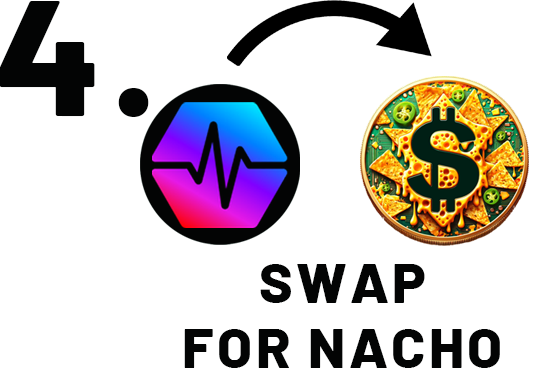
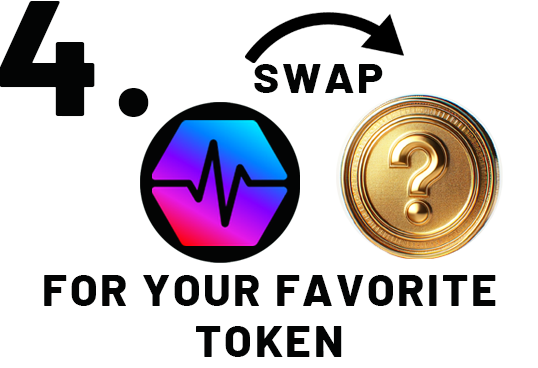
update

diff --git a/index.html b/index.html
@@ -290,10 +290,10 @@
               <img src="images/steps/3.png?v=2" alt="step 3" />
             </div>
             <div class="step">
-              <img src="images/steps/4.png" alt="step 4" />
+              <img src="images/steps/4.png?v=2" alt="step 4" />
             </div>
             <div class="step">
-              <img src="images/steps/5.png" alt="step 5" />
+              <img src="images/steps/5.png?v=2" alt="step 5" />
             </div>
           </div>
           <br />
@@ -808,7 +808,7 @@
                 aria-expanded="false"
                 aria-controls="collapse10"
               >
-                Swap PLS for NACHO
+                Swap for your Favorite Token
               </button>
             </h2>
             <div id="collapse10" class="accordion-collapse collapse">
@@ -833,7 +833,7 @@
                   </li>
                   <li>Check the I understand box and click import again.</li>
                   <li>
-                    Now type in how many PLS you would like to swap for Nacho!
+                    Now type in how many PLS you would like to swap for your favorite token!
                   </li>
                   <li>
                     Click the Connect Wallet button and then click the MetaMask
@@ -860,7 +860,7 @@
 
                 <br />
                 <h3>
-                  Hold NACHO and hold your KEYS! You made it! Now share with
+                  EAT NACHOS and hold your KEYS! You made it! Now share with
                   your friends to ignite the DeFi Revolution!
                 </h3>
 
@@ -1208,7 +1208,7 @@
             <h2
               style="color: rgb(249, 162, 21); font-family: 'Righteous', serif"
             >
-              Hold your Keys - Hold $NACHO
+              Hold your Keys - EAT NACHOS
             </h2>
             <br /><br />
             <h3>Whats Next?</h3>
